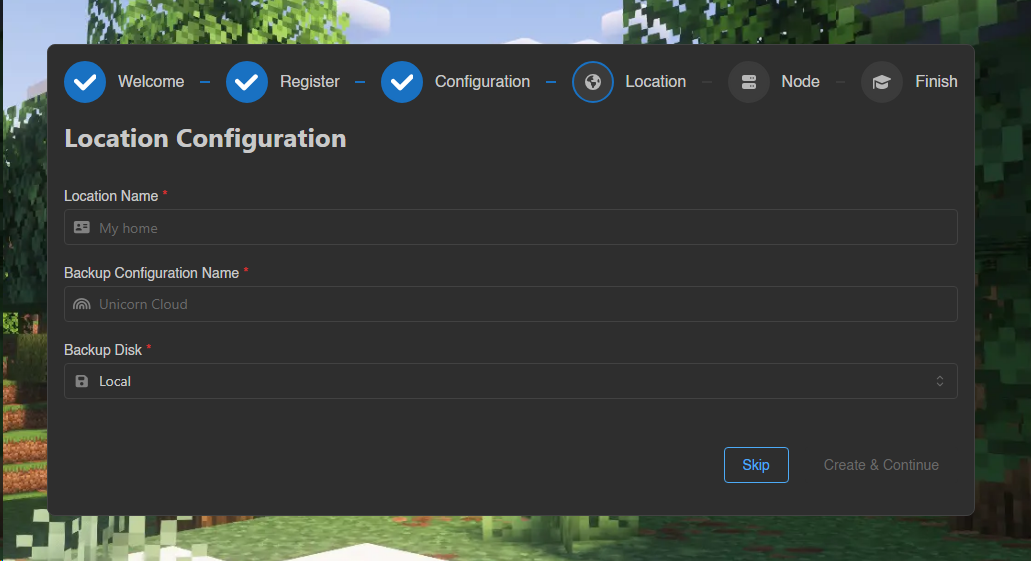
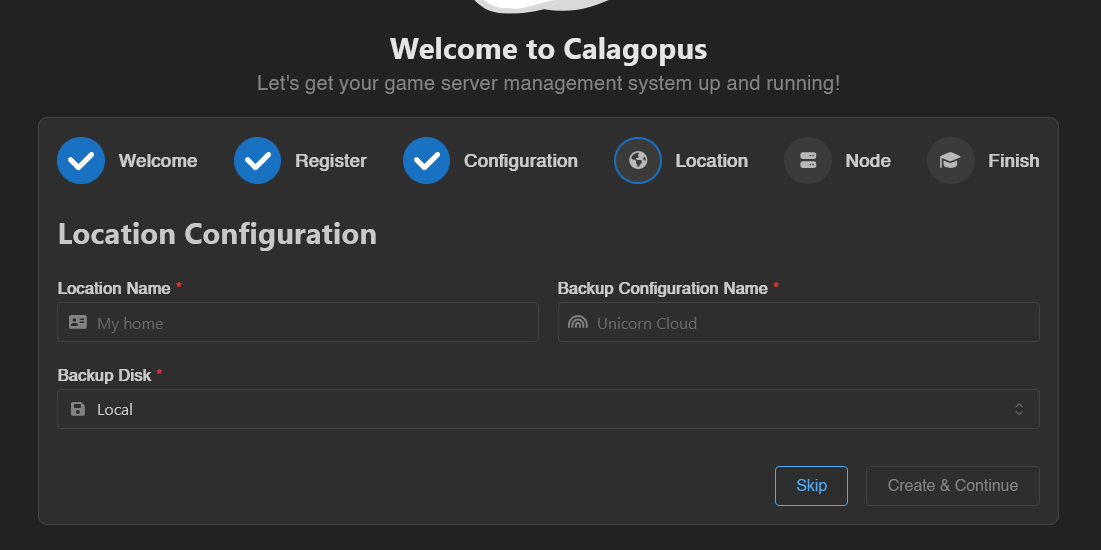
change oobe imgs

diff --git a/web/docs/panel/next-steps/egg-repos.md b/web/docs/panel/next-steps/egg-repos.md
@@ -64,5 +64,7 @@ Then, simply click on the `Sync` button to sync the updated eggs to the list.
 To update an egg, first head to the Nests tab and click on the nest where your egg is located at.
 ![](./images/egg-repos/nest-update.png)
 
-Then, 
+Then, click on the egg you want to update.
 ![](./images/egg-repos/egg-update.png)
+
+